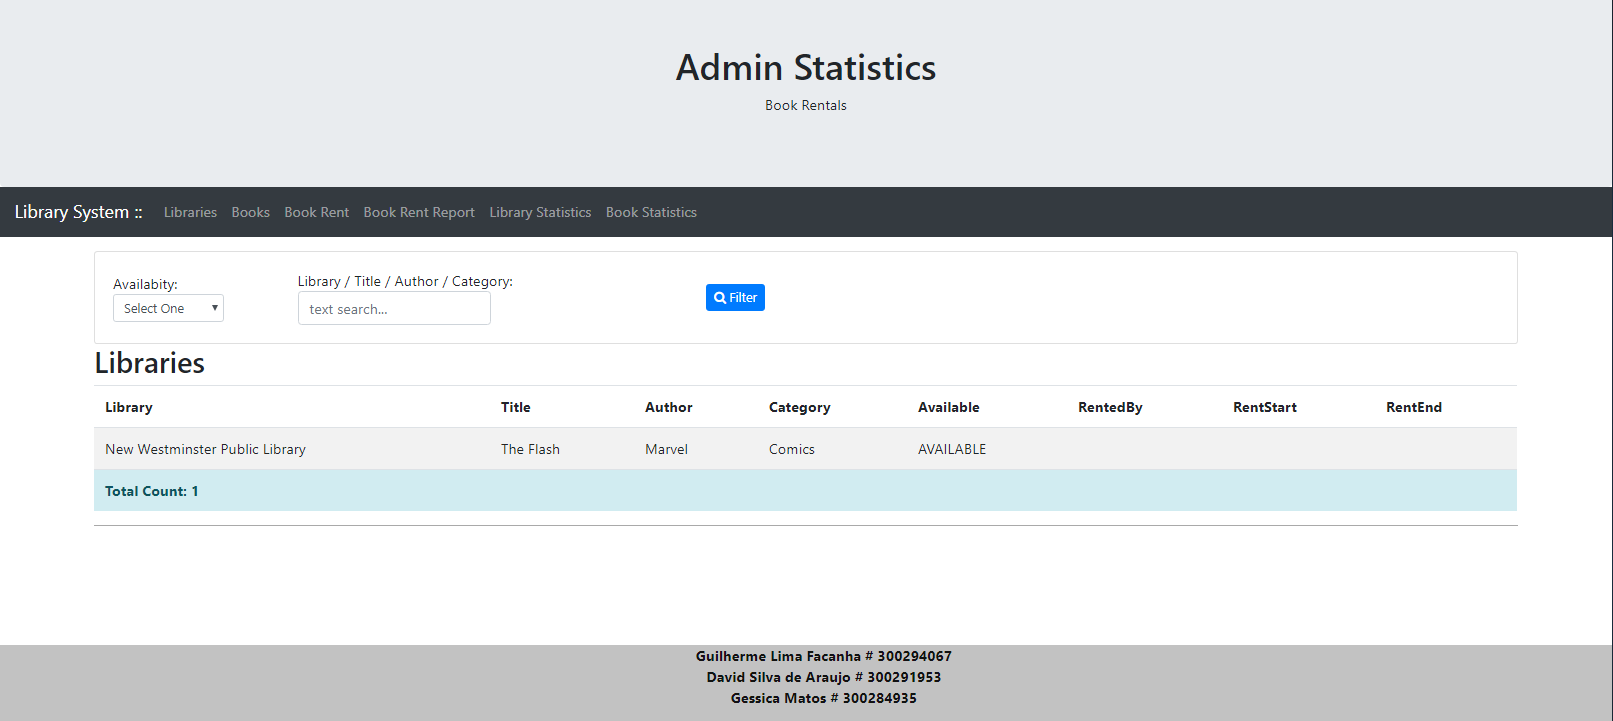
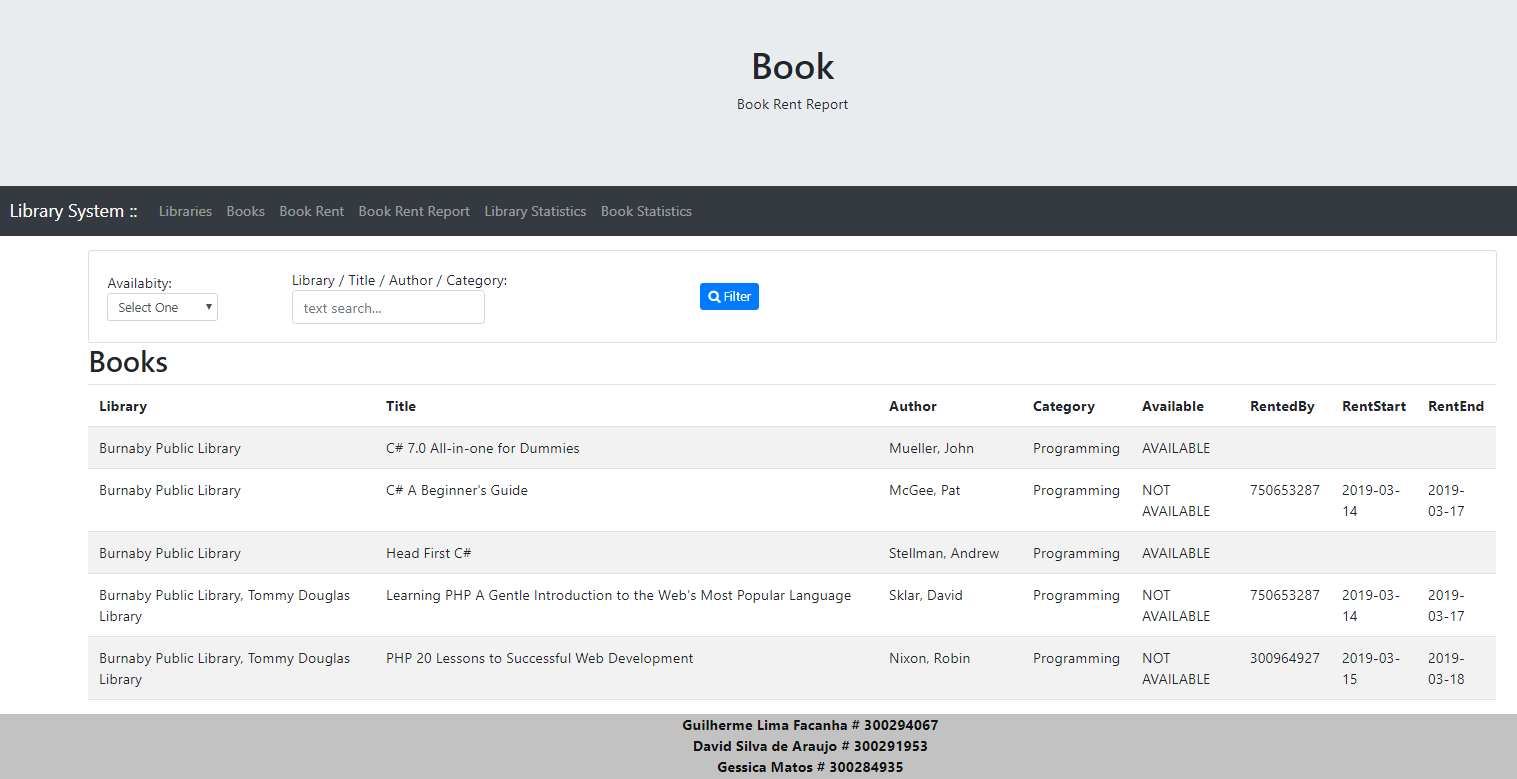
layout

diff --git a/stats2.php b/stats2.php
@@ -14,11 +14,11 @@
     //require_once("inc/dao/CustomerMapper.class.php");
 
     Page::$title = 'Admin Statistics';
-    Page::$subtitle = 'Book Rentals';
+    Page::$subtitle = 'Books by Availability';
     Page::header();
 
     $resGAvail = RestClient::call("GET",array('gavail' => 'true'));
-    StatsPage::showGroupChart($resGAvail ,'Books per Availabilty');
+    StatsPage::showGroupChart($resGAvail ,'Books by Availabilty');
     
     Page::footer();
     ?>

diff --git a/bookReport.php b/bookReport.php
@@ -13,8 +13,8 @@
     require_once("inc/Utility/RestClient.class.php");
     //require_once("inc/dao/CustomerMapper.class.php");
 
-    Page::$title = 'Admin Statistics';
-    Page::$subtitle = 'Book Rentals';
+    Page::$title = 'Book';
+    Page::$subtitle = 'Book Rent Report';
     Page::header();
     if($_POST){
         $avail = $_POST['available'];

diff --git a/inc/Page/StatsPage.class.php b/inc/Page/StatsPage.class.php
@@ -36,7 +36,7 @@ class StatsPage
         ';
 
         //Setup the table
-        echo '<h2>Libraries</h2>';
+        echo '<h2>Books</h2>';
         echo '<table id="tb_records" name="tb_records" class="display table table-striped table-hover"> <thead>';
         echo '<th>Library</th>';
         echo '<th>Title</th>';

diff --git a/stats.php b/stats.php
@@ -14,7 +14,7 @@
     //require_once("inc/dao/CustomerMapper.class.php");
 
     Page::$title = 'Admin Statistics';
-    Page::$subtitle = 'Book Rentals';
+    Page::$subtitle = 'Books by Library';
     Page::header();
 
     $resGLib = RestClient::call("GET",array('glib' => 'true'));
